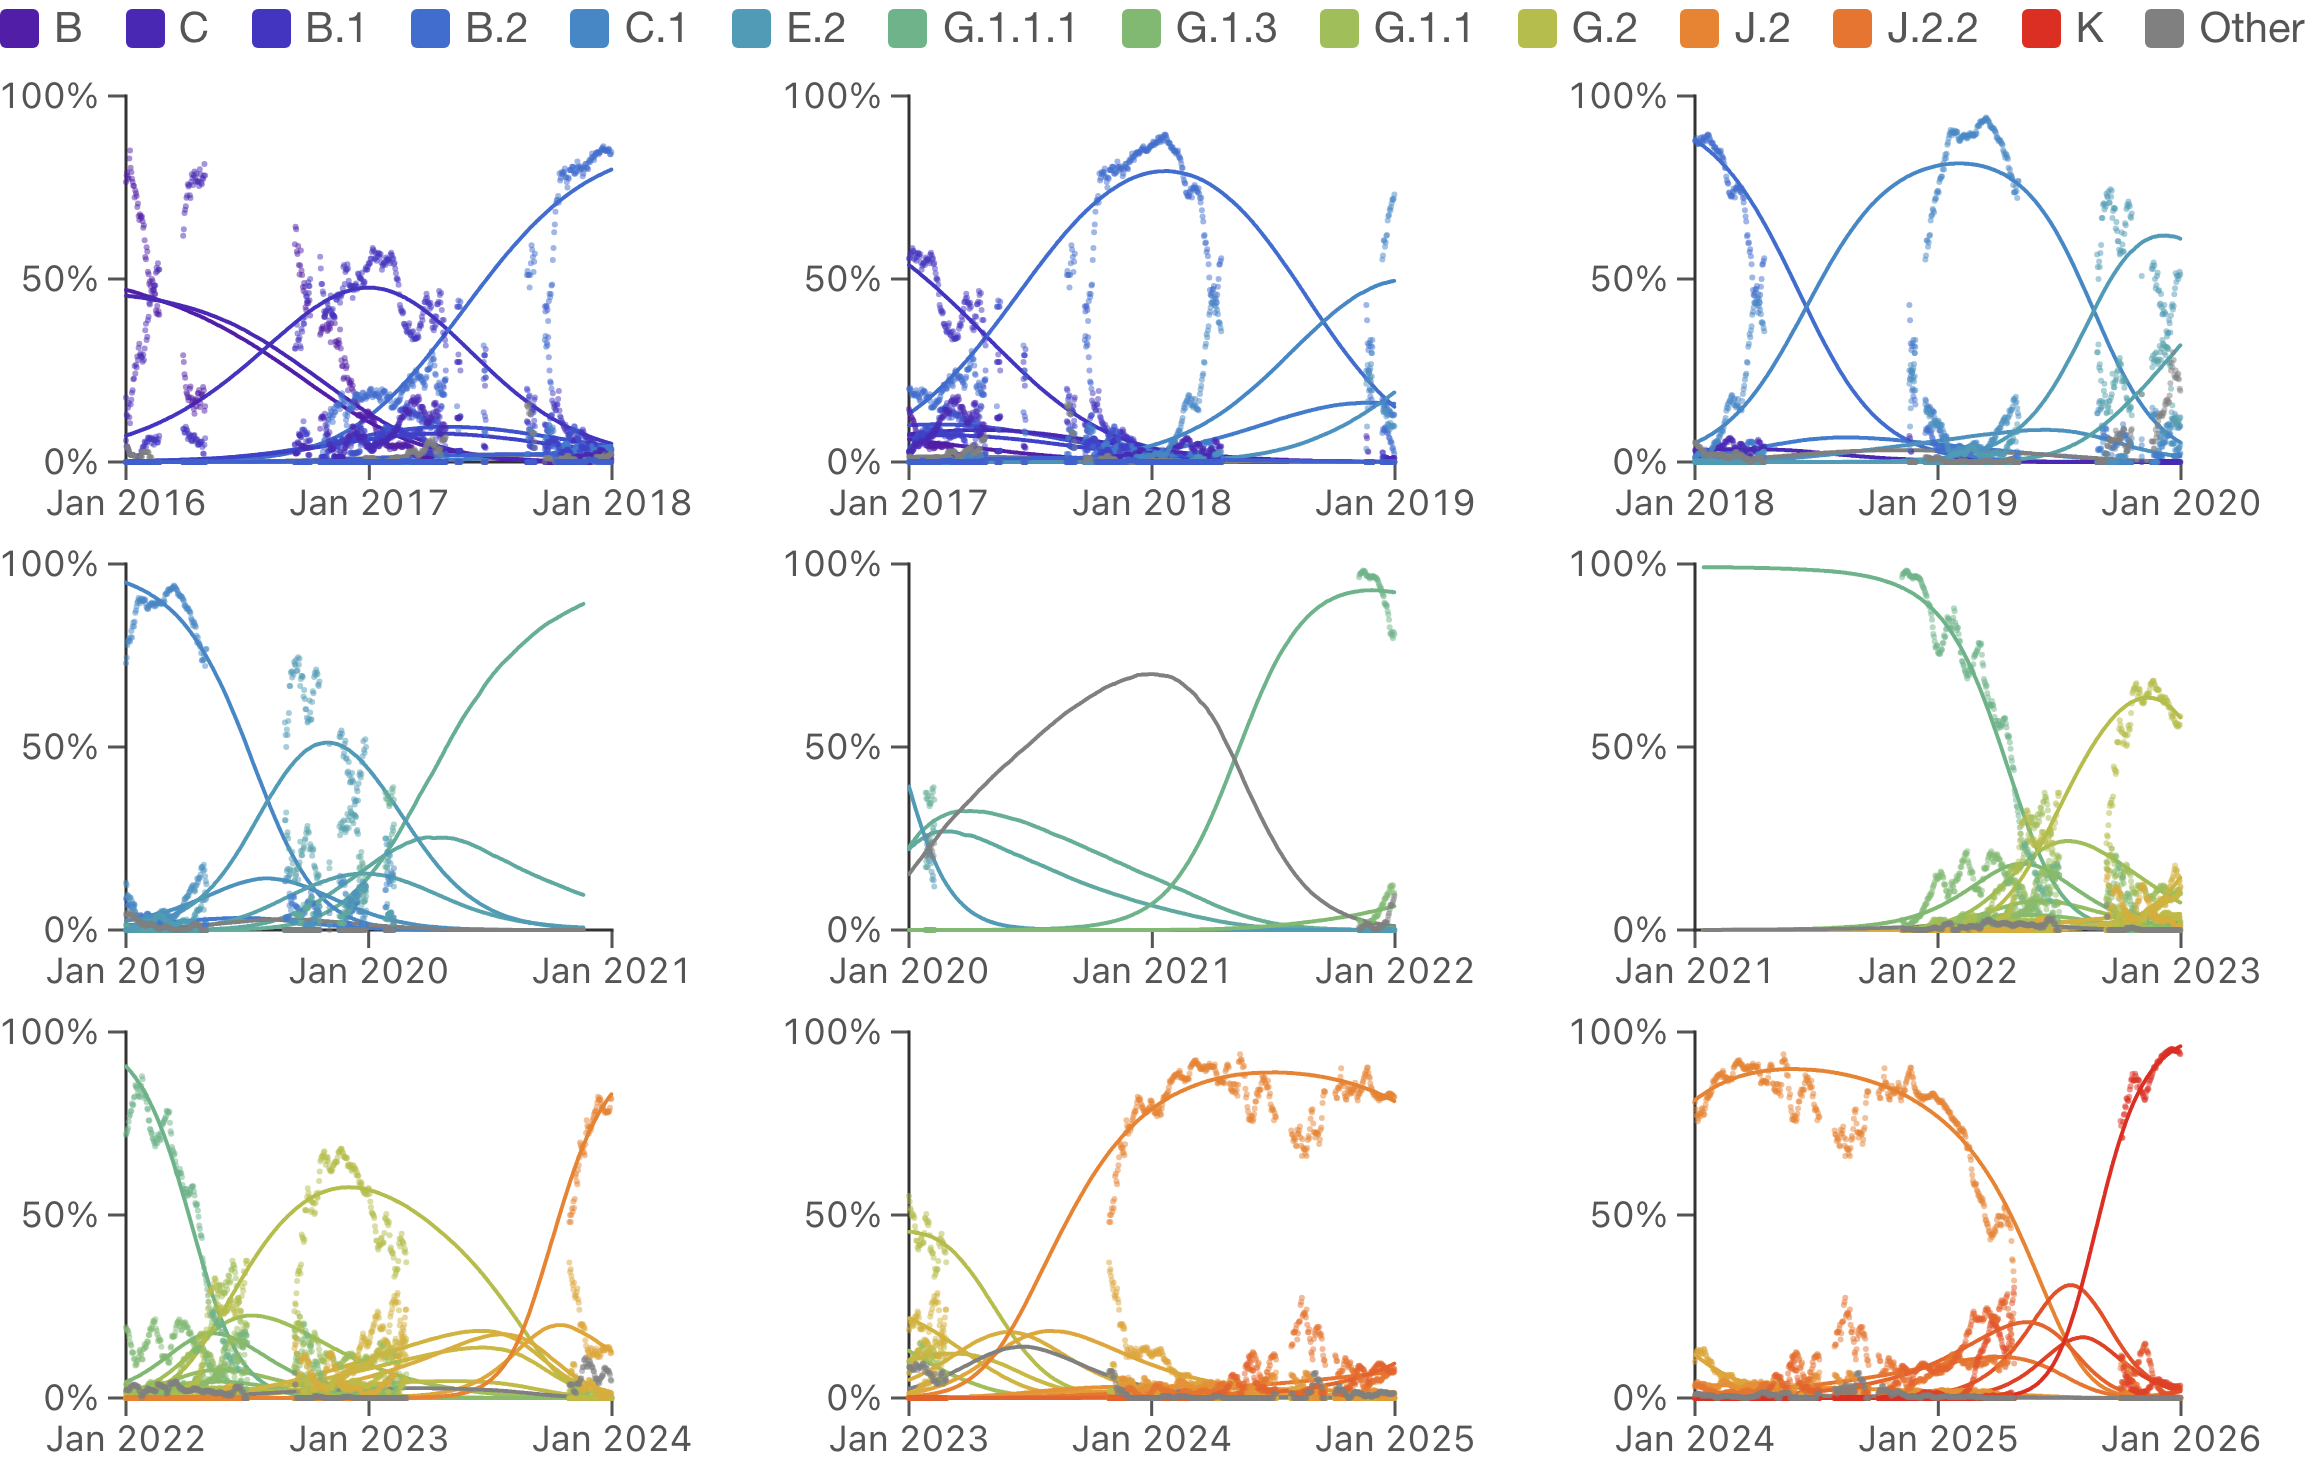
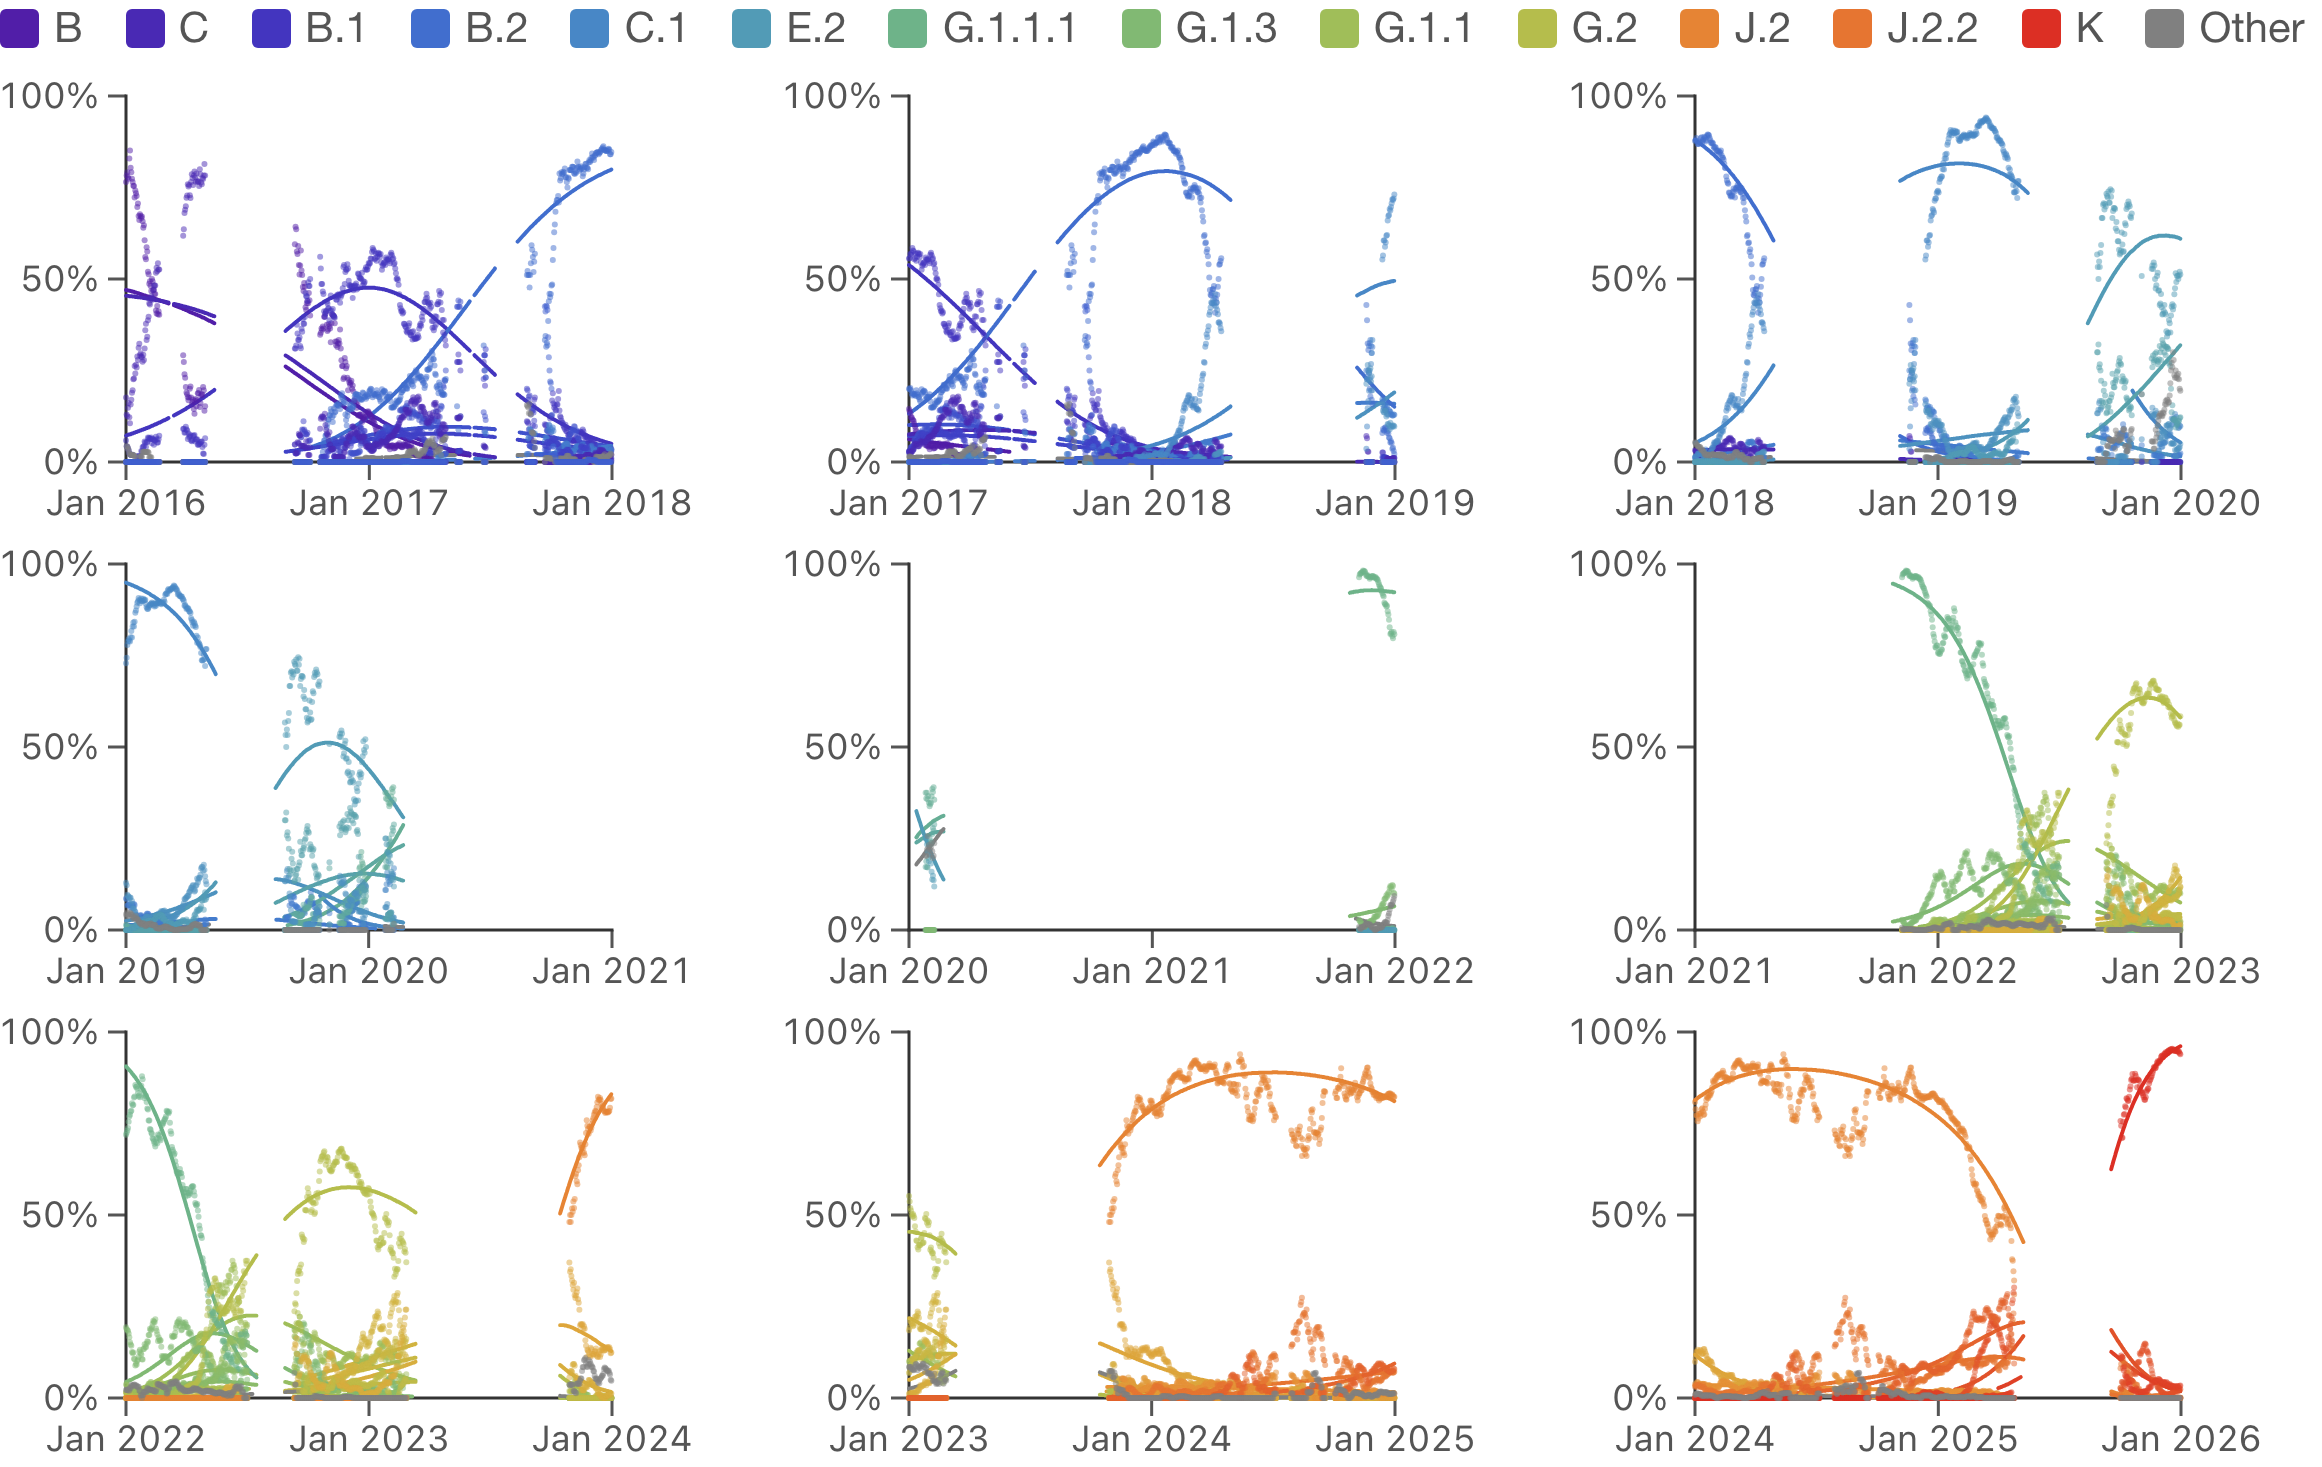
MLR frequency lines require empirical data support
Only draw MLR frequency lines in periods with support from empirical sequence counts

diff --git a/viz/time-vs-frequency/time-vs-frequency.js b/viz/time-vs-frequency/time-vs-frequency.js
@@ -27,6 +27,12 @@ const YEAR_MS = 365.25 * 24 * 3600 * 1000;
 const FREQ_MIN = 0.01;
 const FREQ_MAX = 0.99;
 const LOGIT_TICK_FREQS = [0.01, 0.1, 0.5, 0.9, 0.99];
+// MLR line drawing: a line is drawn only within ±LINE_SLACK_DAYS of an empirical
+// point above LINE_FREQ_THRESHOLD, so it tracks where there is data to compare
+// against. The slack bridges the ~weekly sampling into a continuous line but not
+// across large data gaps (e.g. the H3N2 summer/pandemic fadeouts).
+const LINE_FREQ_THRESHOLD = FREQ_MIN;
+const LINE_SLACK_DAYS = 14;
 const toLogit = (p) => Math.log(p / (1 - p));
 const fromLogit = (t) => 1 / (1 + Math.exp(-t));
 const clampFreq = (p) => Math.min(FREQ_MAX, Math.max(FREQ_MIN, p));
@@ -45,6 +51,48 @@ function tickIntervalFor(dated) {
     return median > 1.4 * YEAR_MS ? d3.utcYear : d3.utcMonth.every(6);
 }
 
+// A variant's MLR line is drawn only near empirical support: within ±slackDays
+// of each empirical point above `threshold`. Overlapping ±slack windows merge
+// into continuous segments (so ~weekly sampling stays one line), but a data gap
+// wider than 2·slack breaks the line — so a variant present on both sides of a
+// long fadeout (e.g. "other" across the pandemic) is not bridged across it.
+// Returns copies tagged with `seg` (variant + segment index) so Plot draws each
+// segment as its own path, coloured by variant. Both params are figure options.
+function modeledLineRows(rows, threshold, slackDays) {
+    const slackMs = slackDays * 864e5;
+    const validByVariant = new Map(); // variant -> sorted ms of empirical > threshold
+    for (const d of rows) {
+        if (typeof d.empirical === "number" && d.empirical > threshold) {
+            const arr = validByVariant.get(d.variant);
+            if (arr) arr.push(+d.date);
+            else validByVariant.set(d.variant, [+d.date]);
+        }
+    }
+    const segmentsByVariant = new Map(); // variant -> merged [lo, hi] intervals
+    for (const [variant, times] of validByVariant) {
+        times.sort((a, b) => a - b);
+        const merged = [];
+        for (const t of times) {
+            const lo = t - slackMs;
+            const hi = t + slackMs;
+            const last = merged[merged.length - 1];
+            if (last && lo <= last[1]) last[1] = Math.max(last[1], hi);
+            else merged.push([lo, hi]);
+        }
+        segmentsByVariant.set(variant, merged);
+    }
+    const out = [];
+    for (const d of rows) {
+        if (typeof d.modeled !== "number") continue;
+        const merged = segmentsByVariant.get(d.variant);
+        if (!merged) continue;
+        const t = +d.date;
+        const seg = merged.findIndex(([lo, hi]) => t >= lo && t <= hi);
+        if (seg !== -1) out.push({ ...d, seg: `${d.variant}#${seg}` });
+    }
+    return out;
+}
+
 export function render(container, data, opts = {}) {
     const mode = opts.mode ?? "inline";
     const panelFont = mode === "slide" ? "14px" : "12px";
@@ -54,6 +102,8 @@ export function render(container, data, opts = {}) {
 
     let useLogit = opts.logit === true;
     let lastWidth = 0;
+    const lineThreshold = opts.lineThreshold ?? LINE_FREQ_THRESHOLD;
+    const lineSlackDays = opts.lineSlackDays ?? LINE_SLACK_DAYS;
 
     const scale = colorScale(data.colors);
     const dated = data.seasonal.map((d) => ({
@@ -143,10 +193,11 @@ export function render(container, data, opts = {}) {
 
     function panelFor(season) {
         const rows = bySeason.get(season);
+        const modeledRows = modeledLineRows(rows, lineThreshold, lineSlackDays);
         const tipPoints = [];
+        for (const d of modeledRows)
+            tipPoints.push({ variant: d.variant, date: d.date, value: d.modeled, kind: "MLR" });
         for (const d of rows) {
-            if (typeof d.modeled === "number")
-                tipPoints.push({ variant: d.variant, date: d.date, value: d.modeled, kind: "MLR" });
             if (typeof d.empirical === "number")
                 tipPoints.push({ variant: d.variant, date: d.date, value: d.empirical, kind: "empirical" });
         }
@@ -173,10 +224,10 @@ export function render(container, data, opts = {}) {
             marks: [
                 Plot.frame({ anchor: "left", stroke: "#333" }),
                 Plot.frame({ anchor: "bottom", stroke: "#333" }),
-                Plot.line(rows.filter((d) => typeof d.modeled === "number"), {
+                Plot.line(modeledRows, {
                     x: "date",
                     y: (d) => yOf(d.modeled),
-                    z: "variant",
+                    z: "seg",
                     stroke: (d) => scale.color(d.variant),
                     strokeWidth: 1.3,
                 }),

diff --git a/manuscript/fitness-flux.md b/manuscript/fitness-flux.md
@@ -75,6 +75,7 @@ The match between the empirical frequencies (dotted trajectories) and MLR freque
 Points represent empirical frequencies of SARS-CoV-2 Nextstrain clades, while solid lines represent modeled frequencies from multinomial logistic regression (MLR).
 All data is taken from the USA.
 The MLR analysis assumes that the fitness of each clade is constant through time.
+MLR frequency lines are drawn where there is sufficient sequence data to estimate empirical frequencies.
 :::
 
 For comparison purposes, we take a similar approach to estimating frequencies and fitnesses of seasonal influenza H3N2 ([@fig:time-vs-frequency-h3n2]).
@@ -88,6 +89,7 @@ However, H3N2 fits remain sufficient to estimate the magnitude of fitness effect
 Points represent empirical frequencies of H3N2 Nextstrain clades, while solid lines represent modeled frequencies from multinomial logistic regression (MLR).
 All data is taken from the USA.
 The MLR analysis assumes that the fitness of each clade is constant through time.
+MLR frequency lines are drawn where there is sufficient sequence data to estimate empirical frequencies.
 :::
 
 We "scaffold" MLR fitness estimates across windows to arrive at a single fitness estimate per variant.
